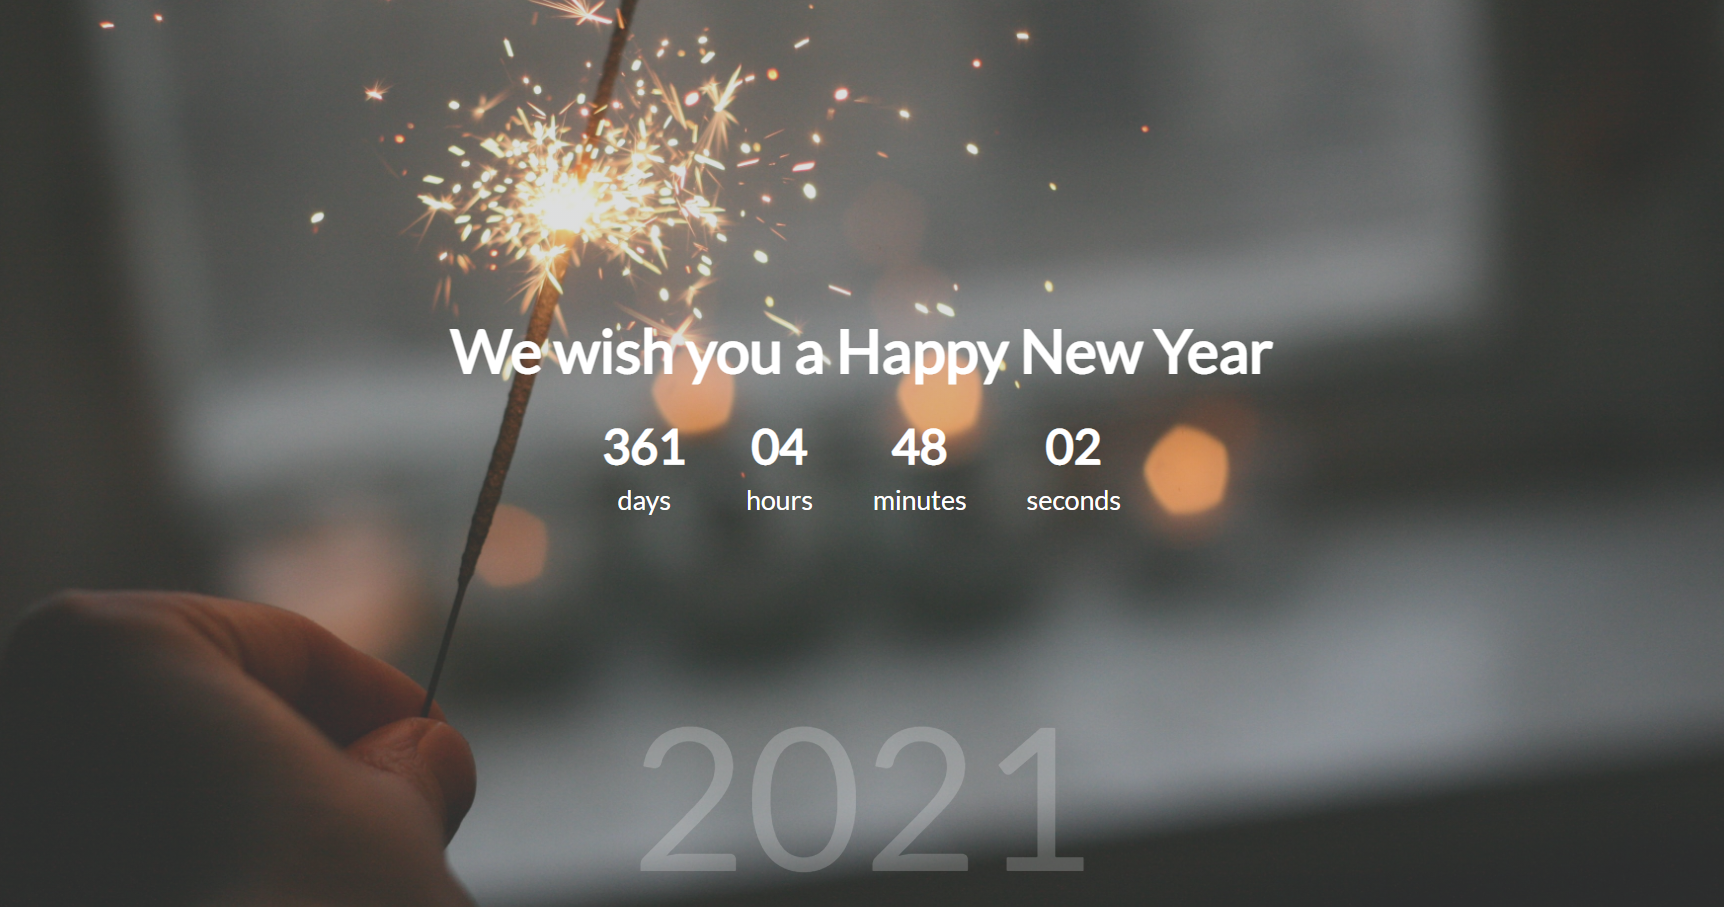
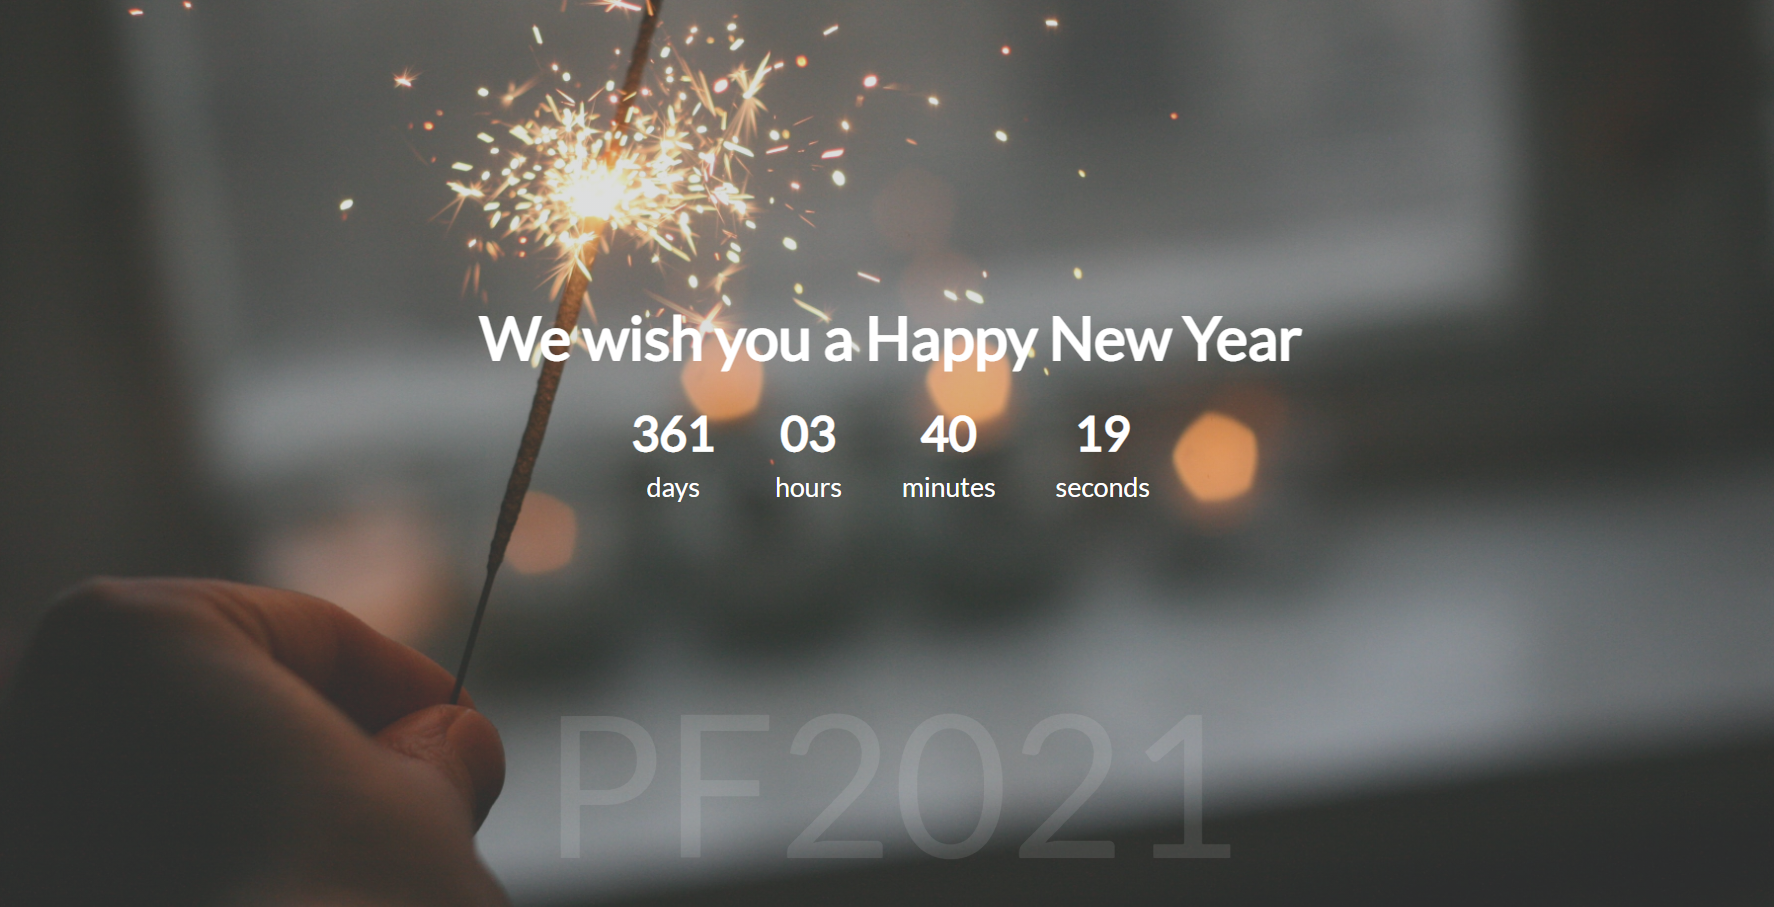
change interface

diff --git a/script.js b/script.js
@@ -12,7 +12,7 @@ const xmasTripTime = new Date(`January 01 ${currentYear + 1}  00:00:00`);
 
 //Set background year
 
-year.innerHTML = currentYear;
+year.innerHTML = 'PF' + currentYear;
 
 //Update countdown time
 function updateCountdown() {

diff --git a/style.css b/style.css
@@ -32,7 +32,7 @@ h1 {
 .year {
     font-size: 200px;
     z-index: -1;
-    opacity: 0.2;
+    opacity: 0.1;
     position: absolute;
     bottom: 20px;
     left: 50%;
